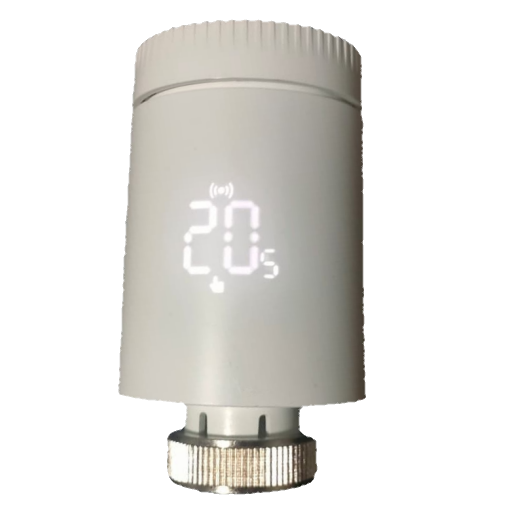
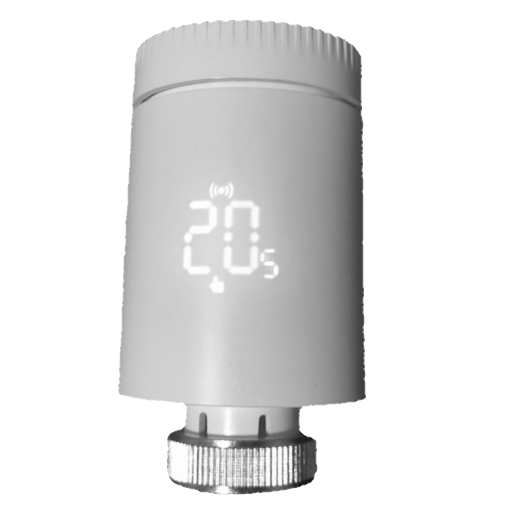
Add custom notes section for AR331 and AR331Pro - Improve image for AR331 (#5032)

Changed region(s): [[0.4062, 0.875, 0.5312, 0.9688]]

diff --git a/docs/devices/AR331.md b/docs/devices/AR331.md
@@ -23,7 +23,12 @@ pageClass: device-page
 
 
 <!-- Notes BEGIN: You can edit here. Add "## Notes" headline if not already present. -->
+## Notes
+### Pairing
+To start pairing of this device, long press the main knob until the menu is entered (display changes to PX, where X is a blinking number) and select P0 by pressing the knob shortly. It will show then CF and a blinking antenna symbol in the display and switch back to the actual temperature and a stable antenna symbol when finished.
 
+### Firmware
+Firmware version needs to be >=1.0.4. Older firmware versions are not working properly. Update via the manufacturer's app (needs a Tuya compatible gateway/hub).
 
 <!-- Notes END: Do not edit below this line -->
 

diff --git a/docs/devices/AR331Pro.md b/docs/devices/AR331Pro.md
@@ -23,7 +23,12 @@ pageClass: device-page
 
 
 <!-- Notes BEGIN: You can edit here. Add "## Notes" headline if not already present. -->
+## Notes
+### Pairing
+To start pairing of this device, long press the main knob until the menu is entered (display changes to PX, where X is a blinking number) and select P0 by pressing the knob shortly. It will show then CF and a blinking antenna symbol in the display and switch back to the actual temperature and a stable antenna symbol when finished.
 
+### Firmware
+Firmware version needs to be >=0.2.3. Older firmware versions are not working properly. Update via the manufacturer's app (needs a Tuya compatible gateway/hub).
 
 <!-- Notes END: Do not edit below this line -->
 
